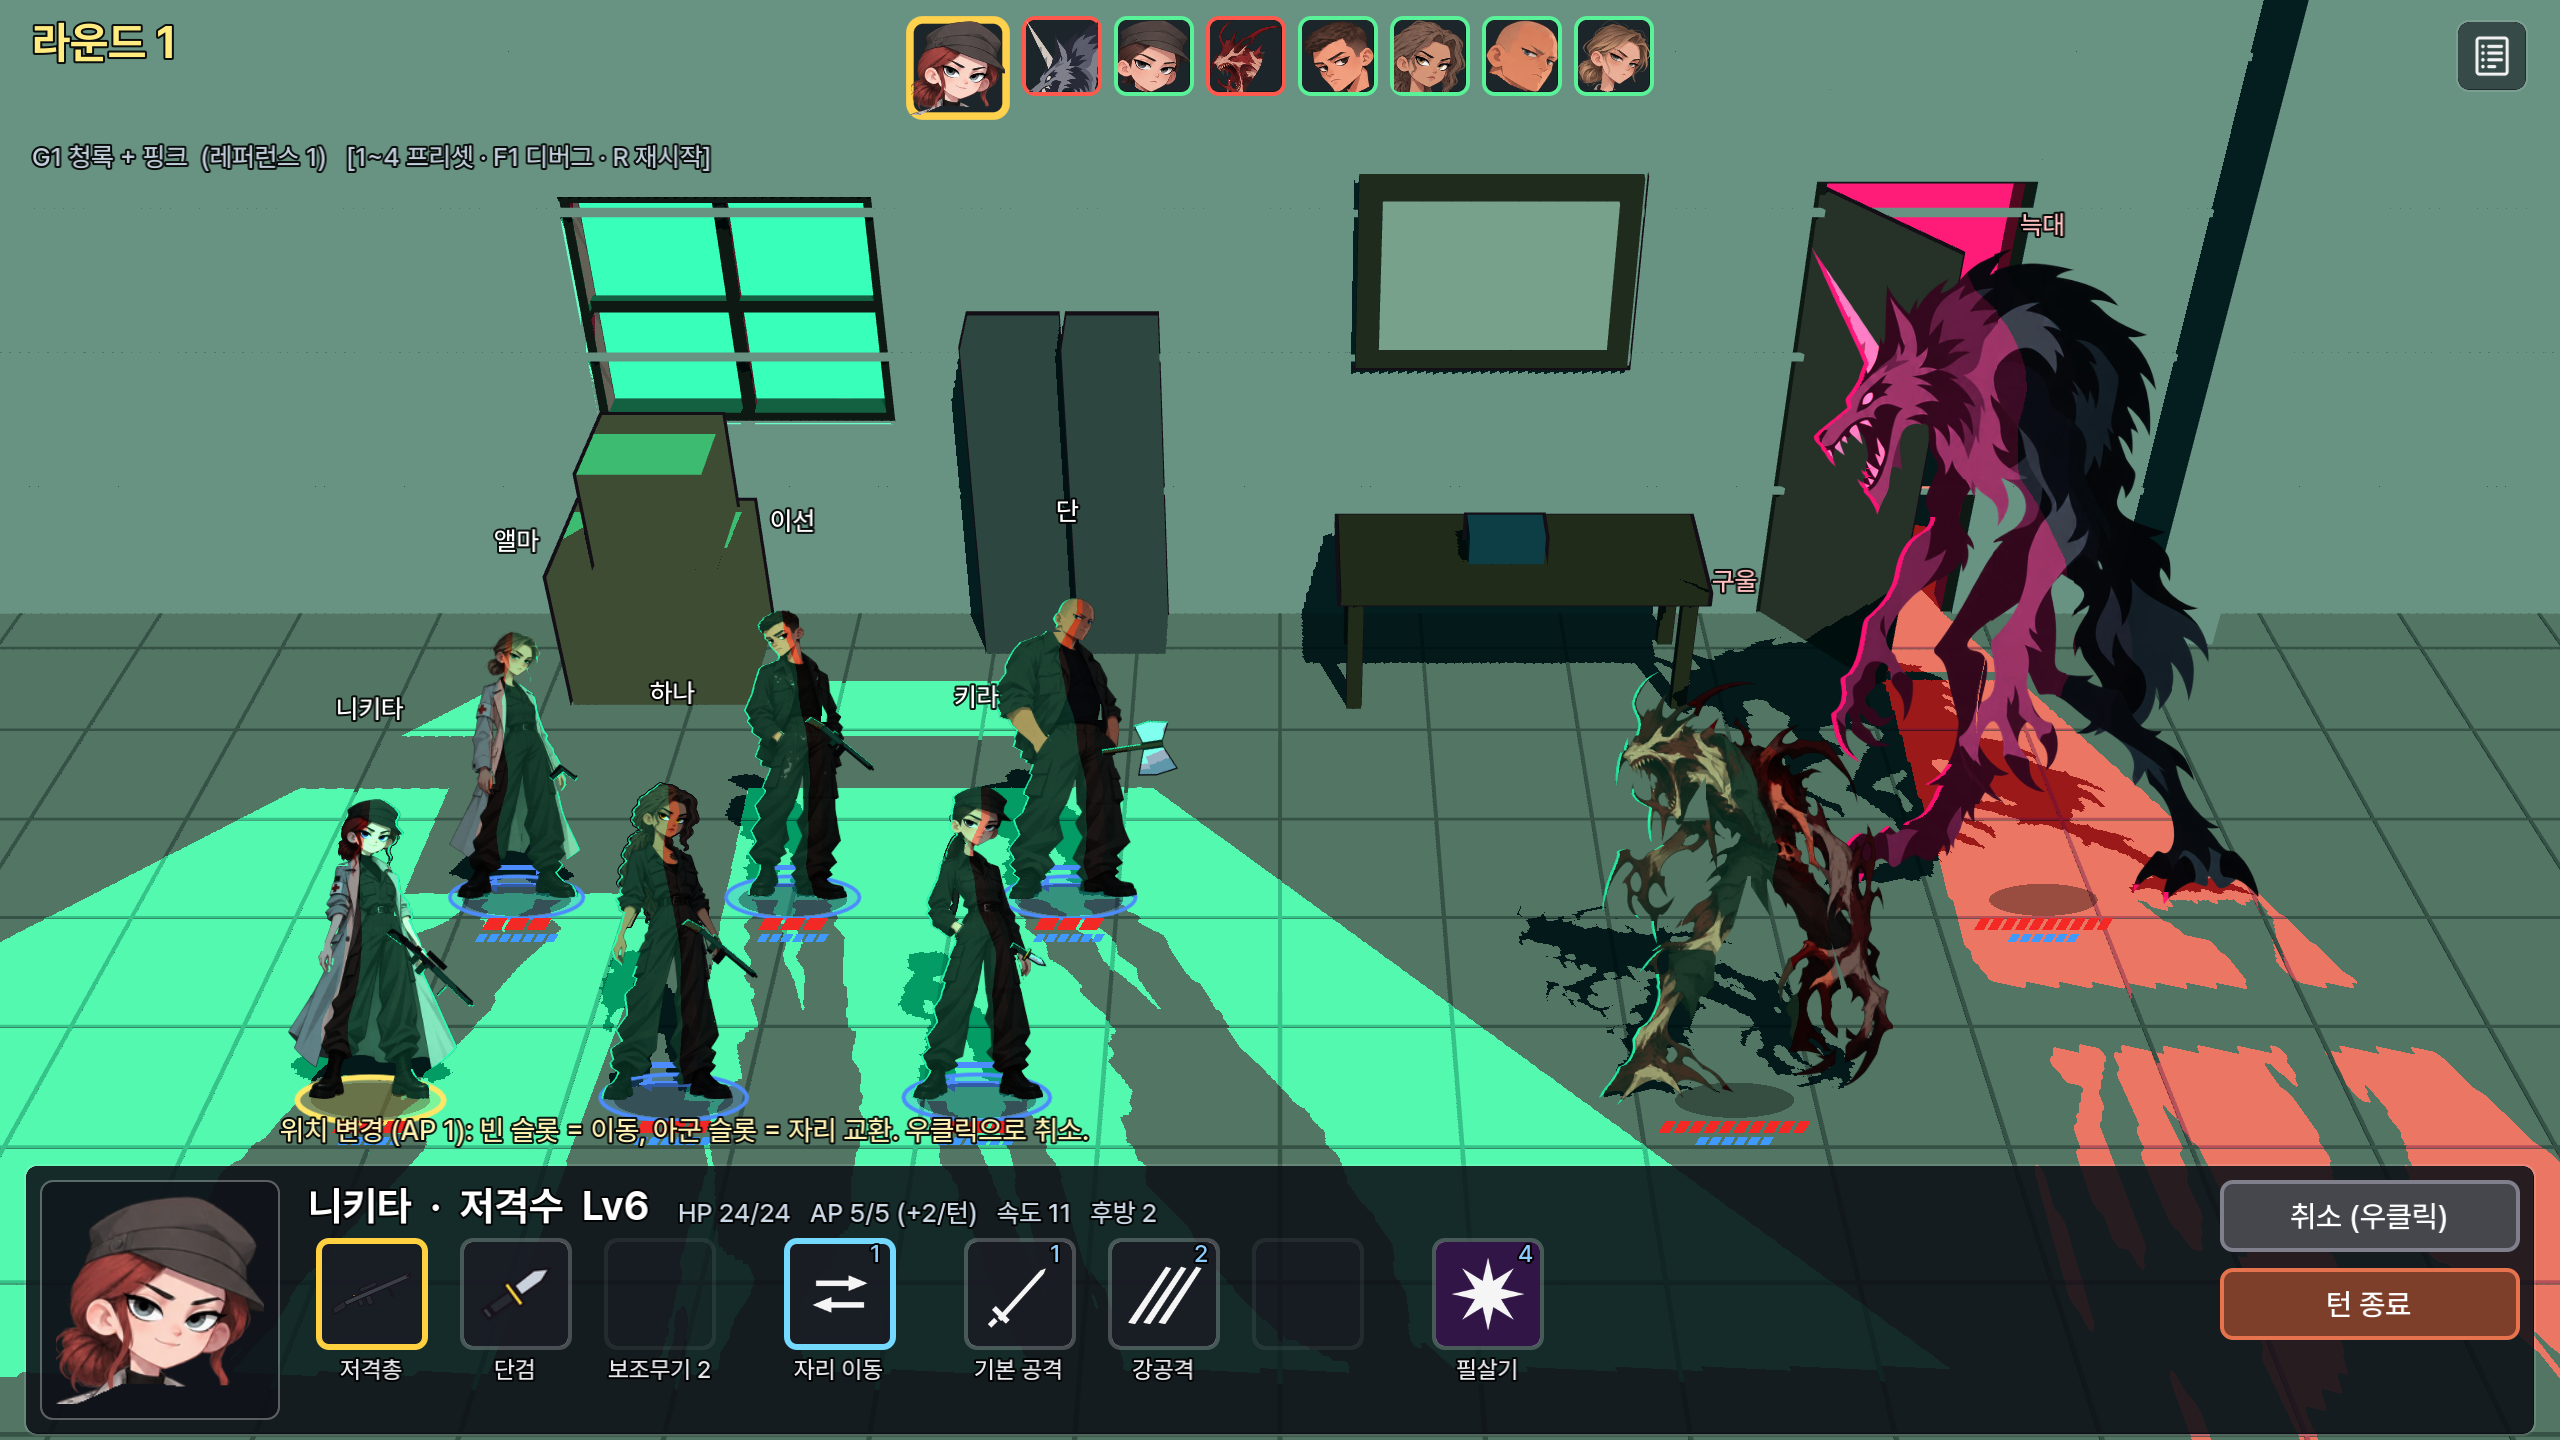
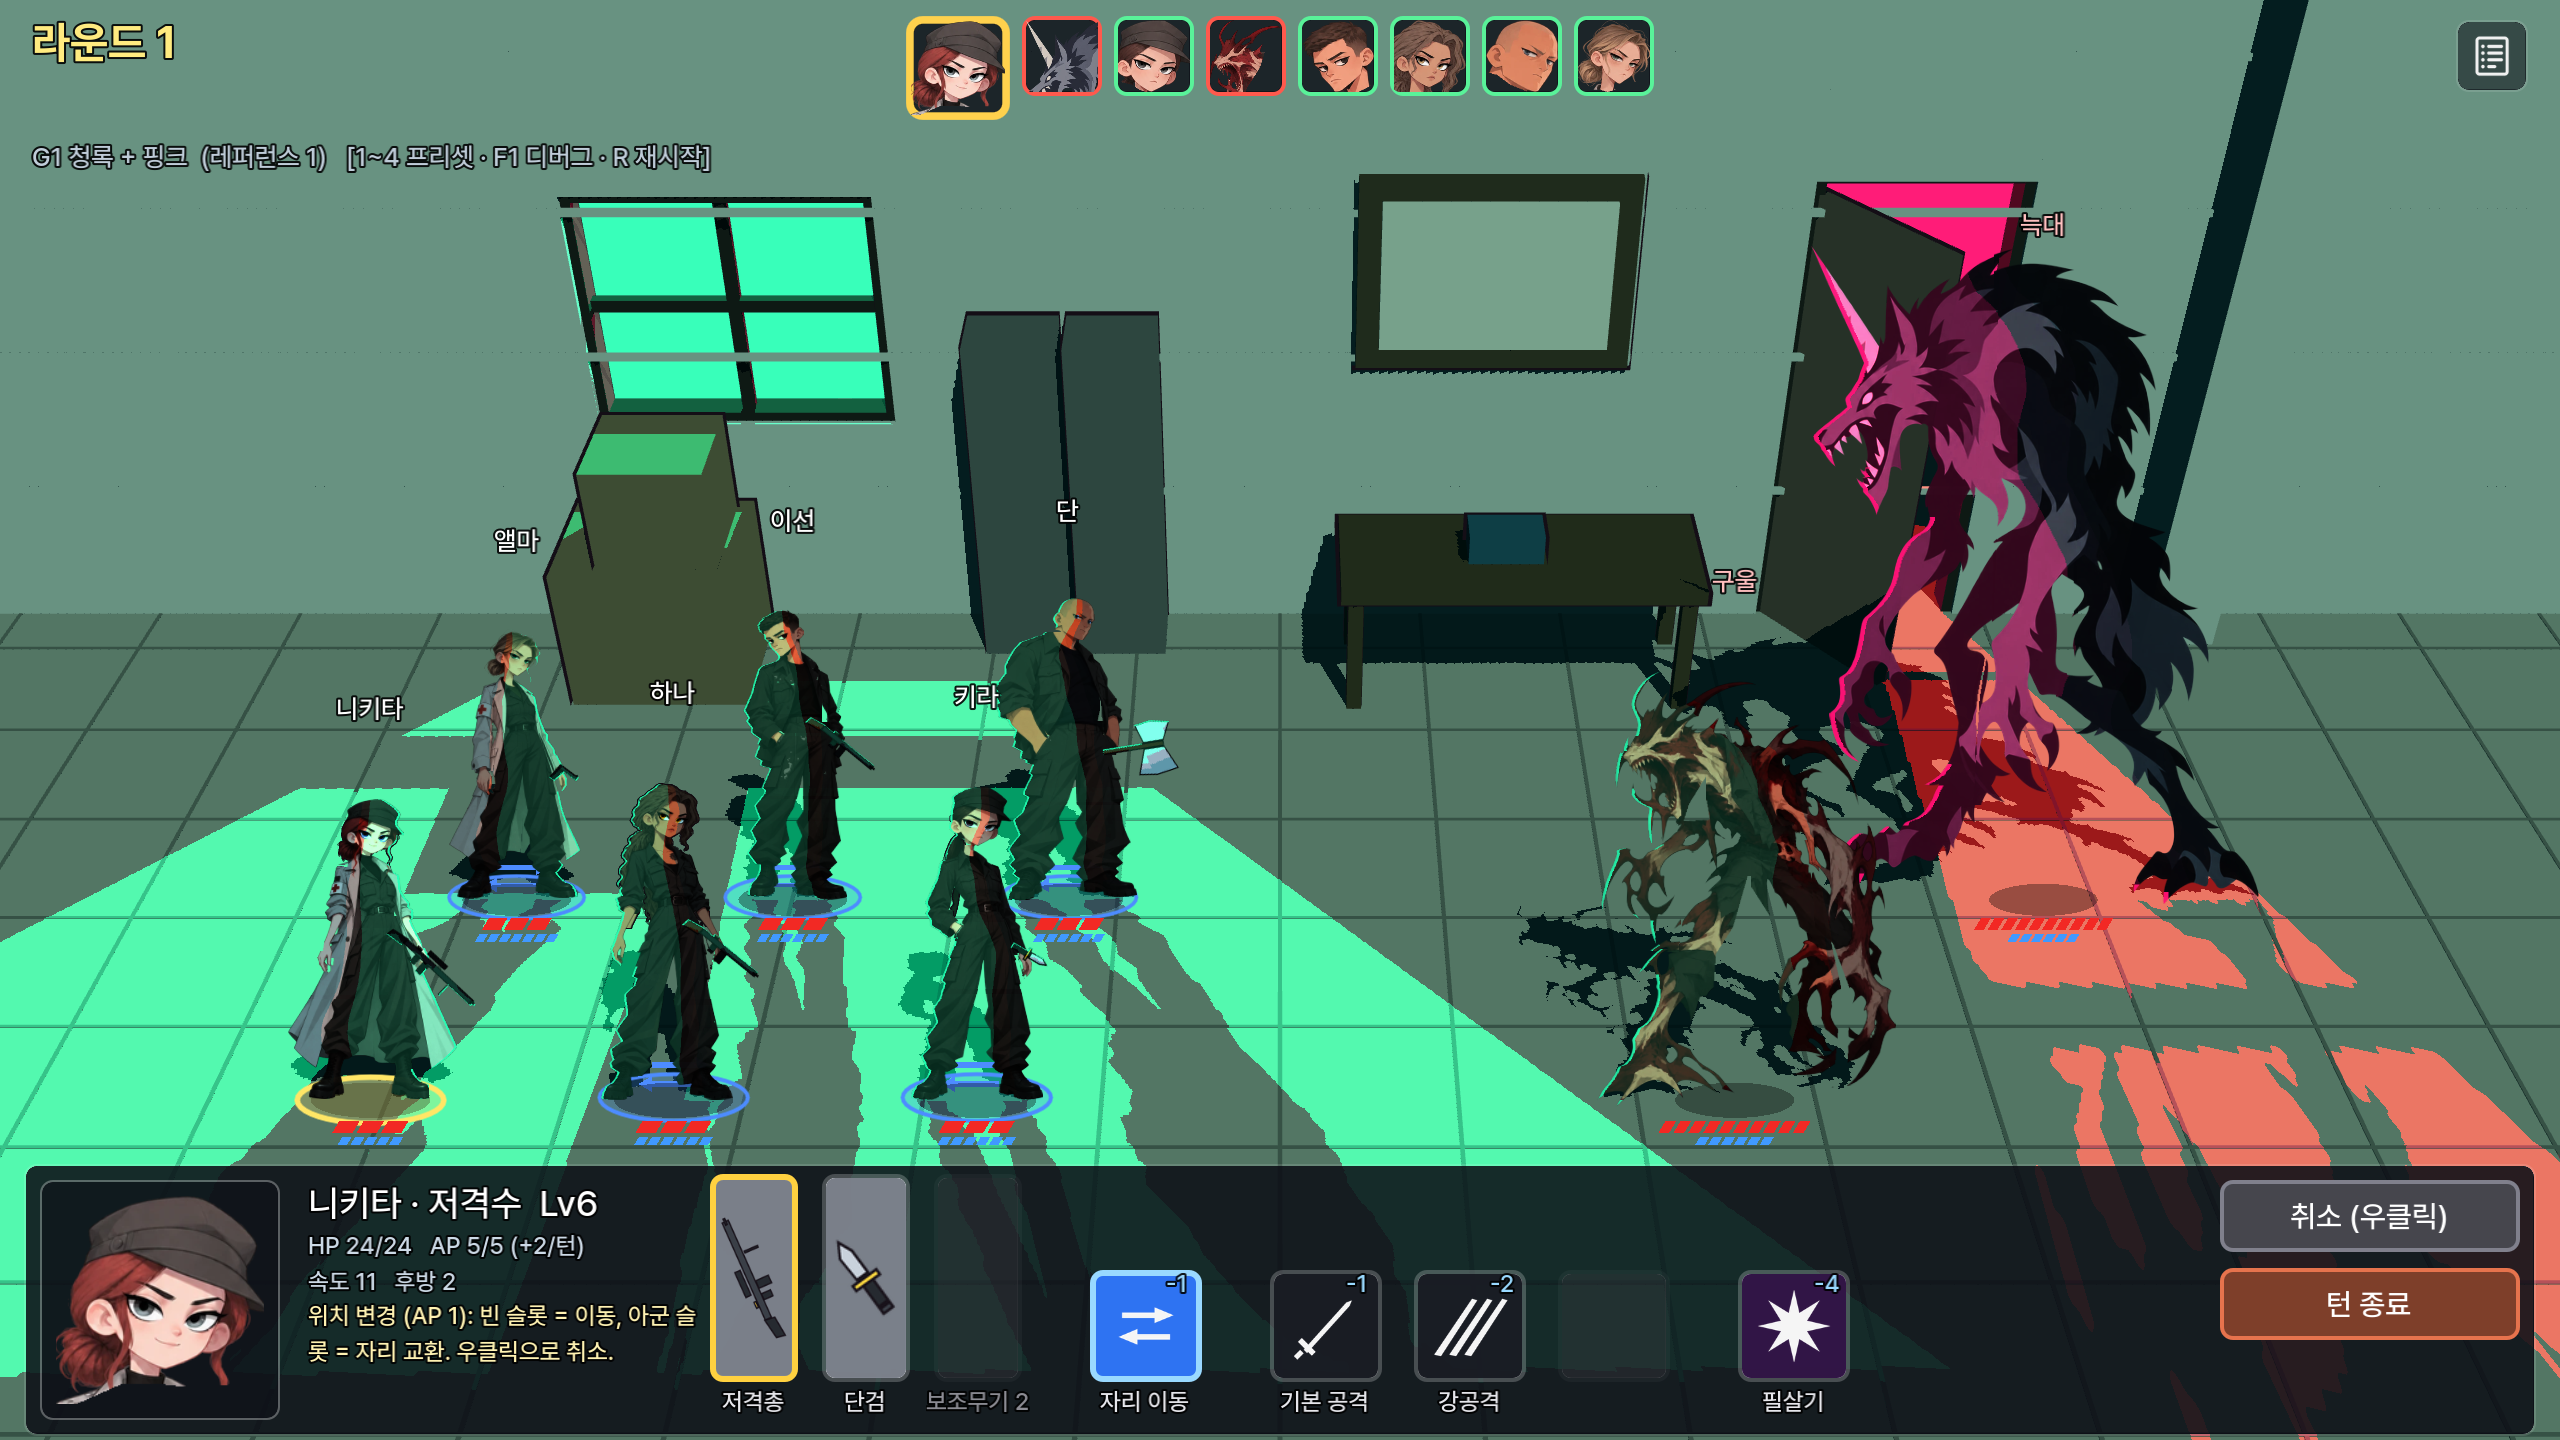
하단 HUD: 슬롯 줄 화면 가운데, 세로 무기 칸, 사용 불가 회색·붉은 -AP, 자리 이동 선택 표시
- 슬롯 줄을 화면 가로 가운데에 배치, 이름·수치·안내는 초상화 옆 좁은 칸으로
- 무기 칸: 패널 천장까지 세로로 길게(무기 원화 90° 회전), 칸 사이 간격 8 → 4
- 사용할 수 없는 슬롯은 회색, 비용 "-AP" 표기(사용 불가 붉은색, 가능 파란색)
- 자리 이동 선택 시 버튼 바탕 파란색 + 가운데 화살표 좌우로 흔들림

Claude-Session: https://claude.ai/code/session_014aytw3hj7boqn3SZ5GP5ti

diff --git a/docs/design/00_decision_log_v1_0.md b/docs/design/00_decision_log_v1_0.md
@@ -18,9 +18,10 @@
   **전투 기록은 2단**: 1단 = 우측 상단 아이콘만(글자 없음), 2단 = 아이콘 아래 기록 창(기존 크기). 아이콘 클릭 또는 L.
   동전 결과 글자는 HUD 에 표시하지 않음. 글꼴은 **Pretendard** (Regular/Medium/Bold, OFL).
 - 발밑 표시 (2026-10-26): 체력(붉은 평행사변형 칸) 바로 아래에 **AP 를 파란 평행사변형 칸**으로 (최대 AP 수만큼 칸, 현재 AP 만큼 참). 머리 위 AP 글자는 제거.
-- 하단 HUD (2026-10-26): 초상화 | 이름·수치 + 슬롯 줄 | 취소·턴 종료.
-  - 무기 3칸(주무기·보조무기1·보조무기2): 클릭 → 그 위에 불투명 검은 버튼 "장착하기 AP -1". 장착 중인 무기는 노란 테두리, 클릭하면 "장착 중"(비활성).
-  - 자리 이동: 클릭 → 이동·교체 가능한 자리 발밑에 파란 표시. 부상·상태이상(move_locked)·큰 몸집으로 옮길 수 없는 캐릭터 자리는 표시 안 함.
+- 하단 HUD (2026-10-26): 초상화 | 이름·수치·안내 | (슬롯 줄은 화면 가로 가운데) | 취소·턴 종료.
+  - 사용할 수 없는 슬롯은 회색, 비용은 "-AP" (사용 불가 붉은색 / 가능 파란색).
+  - 무기 3칸(주무기·보조무기1·보조무기2): 세로로 긴 칸(패널 천장까지, 무기 원화 90° 회전), 칸 사이 간격은 다른 슬롯의 절반. 클릭 → 그 위에 불투명 검은 버튼 "장착하기 AP -1". 장착 중인 무기는 노란 테두리, 클릭하면 "장착 중"(비활성).
+  - 자리 이동: 클릭 → 버튼 바탕이 파란색, 가운데 화살표가 좌우로 살짝 흔들림. 이동·교체 가능한 자리 발밑에 파란 표시. 부상·상태이상(move_locked)·큰 몸집으로 옮길 수 없는 캐릭터 자리는 표시 안 함.
   - 기본 스킬 3칸: 아이콘 + 아래 이름, 호버 시 효과 설명. 필살기 1칸: 호버 시 효과 설명. 우상단 숫자 = AP 비용.
 - 선공 동전 연출 (2026-10-26): 일반 전투 시작 시 화면 아래에서 3D 금화가 튀어 올라 오른쪽으로 돌다 떨어짐.
   **앞면 = 고양이 새김 = 아군 선공, 뒷면 = 아무것도 없는 매끈한 면 = 적 선공.** 착지 후 "아군 선공"/"적 선공" 글자를 잠깐 띄움. 연출이 끝난 뒤 첫 라운드 시작 (기습·매복은 동전 없음).
